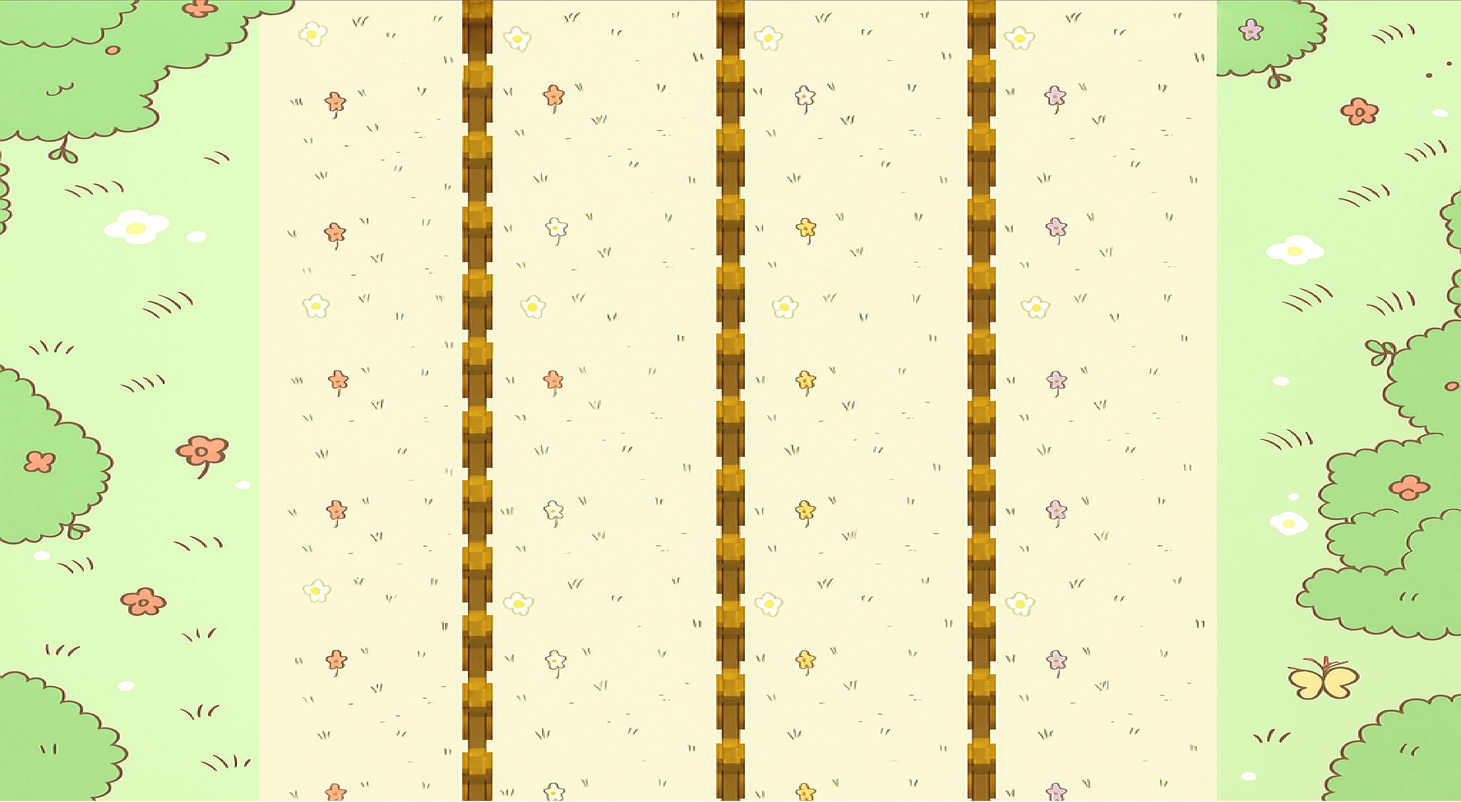
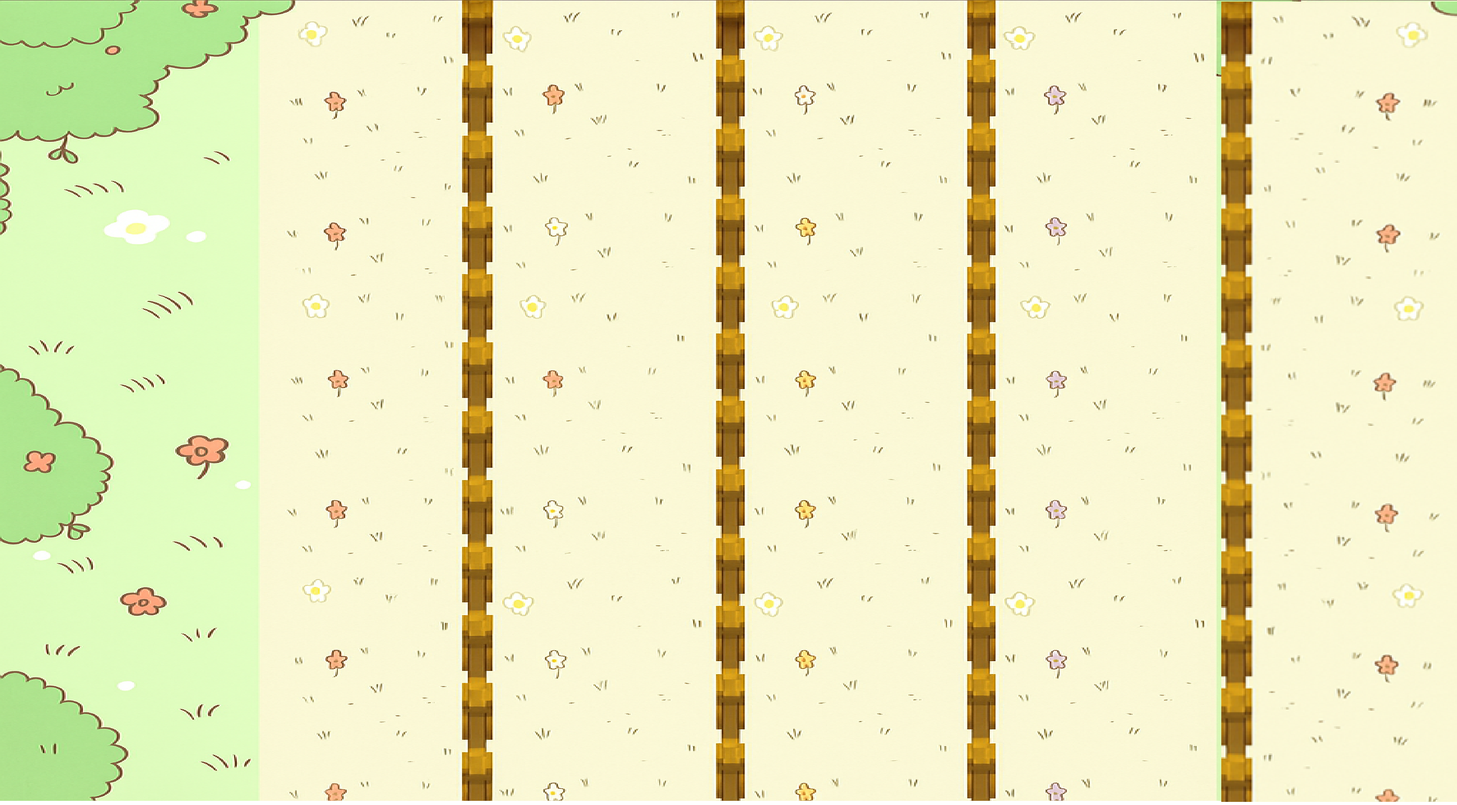
update

diff --git a/chicken_cross.py b/chicken_cross.py
@@ -5,7 +5,7 @@ import random
 
 # Initialize Pygame
 pygame.init()
-
+ 
 # Constants
 WIDTH = 1540
 HEIGHT = 774
@@ -22,6 +22,8 @@ YELLOW = (255, 255, 0)
 RED = (255, 0, 0)
 move_speed = 15  # Speed of movement
 passed = 0
+scroll_offset = 0  # For infinite scroll
+bg_switched = False  # Track if we have switched to street2 permanently
 
 # Set up the display
 screen = pygame.display.set_mode((WIDTH, HEIGHT))
@@ -31,12 +33,14 @@ clock = pygame.time.Clock()
 # Load images
 street_img = pygame.image.load("street.png").convert()
 street_img = pygame.transform.scale(street_img, (WIDTH, HEIGHT))  # Match total street width
+street2_img = pygame.image.load("street2.png").convert()
+street2_img = pygame.transform.scale(street2_img, (WIDTH, HEIGHT))  # Match total street width
 down = pygame.image.load("down.png").convert()
 down = pygame.transform.scale(down, (LANE_WIDTH, HEIGHT))  # Match total street width
 usagi = pygame.image.load("maincharacter.png").convert_alpha()  # Use convert_alpha for transparency
 usagi = pygame.transform.scale(usagi, (200, 180))
-star = pygame.image.load("star.png").convert_alpha()  # Use convert_alpha for transparency
-star = pygame.transform.scale(star, (200, 180))
+# star = pygame.image.load("star.png").convert_alpha()  # Use convert_alpha for transparency
+# star = pygame.transform.scale(star, (200, 180))
 obstacle_img = pygame.image.load("momonga.png").convert_alpha()  # Placeholder for obstacle image
 obstacle_img = pygame.transform.scale(obstacle_img, (100, 100))  # Adjust size as needed
 
@@ -69,7 +73,7 @@ obstacles = [
 
 def play_random_voices():
     if voice_files:  # Ensure there are voice files
-        selected_voices = random.sample(voice_files, min(1, len(voice_files)))  # Pick 2 random voices
+        selected_voices = random.sample(voice_files, min(1, len(voice_files)))  # Pick 1 random voice
         for voice in selected_voices:
             sound = pygame.mixer.Sound(voice)
             sound.play()
@@ -80,10 +84,11 @@ def generate_question():
     return f"{a} + {b} = ?", a + b
 
 def setup():
-    global chicken_x, chicken_y, current_lane, car_x, car_y, math_question, math_answer, user_input, score, time_left, game_over, target_x, passed
+    global chicken_x, chicken_y, current_lane, car_x, car_y, math_question, math_answer, user_input, score, time_left, game_over, target_x, passed, scroll_offset, bg_switched
     chicken_x = LANE_WIDTH // 2
     chicken_y = HEIGHT // 2
     passed = 0
+    scroll_offset = 0 # reset scroll offset
     current_lane = 0  # Start on sidewalk
     car_x = WIDTH
     car_y = HEIGHT - 150
@@ -93,6 +98,7 @@ def setup():
     time_left = TIME_LIMIT
     game_over = False
     target_x = chicken_x  # Reset target position
+    bg_switched = False
     # Randomize obstacle positions and speeds
     for obs in obstacles:
         obs["lane"] = obs["lane"]  # Fixed to one obstacle per lane
@@ -100,8 +106,20 @@ def setup():
         obs["y"] = HEIGHT - 150
         obs["speed_y"] = random.uniform(-4, 4)  # Increased speed range
 
+def reset_for_scroll():
+    global chicken_x, chicken_y, current_lane, target_x, obstacles
+    chicken_x = LANE_WIDTH // 2
+    chicken_y = HEIGHT // 2
+    current_lane = 0
+    target_x = chicken_x
+    # Reset obstacles to new positions for the new section
+    for obs in obstacles:
+        obs["x"] = obs["lane"] * LANE_WIDTH + LANE_WIDTH // 2 - 50
+        obs["y"] = HEIGHT - 150
+        obs["speed_y"] = random.uniform(-4, 4)
+
 def update_loop():
-    global chicken_x, chicken_y, current_lane, car_x, car_y, math_question, math_answer, user_input, score, time_left, game_over, other_lane, target_x, passed
+    global chicken_x, chicken_y, current_lane, car_x, car_y, math_question, math_answer, user_input, score, time_left, game_over, other_lane, target_x, passed, scroll_offset, bg_switched
 
     if game_over:
         for event in pygame.event.get():
@@ -166,28 +184,52 @@ def update_loop():
         if obs["y"] < 100 or obs["y"] > HEIGHT - 150:  # Keep within screen bounds
             obs["speed_y"] *= -1  # Reverse direction when hitting bounds
 
+    # Infinite scroll effect: after 4 lanes, shift everything and reset
+    if passed >= 6:
+        scroll_offset += WIDTH  # Move background by one screen width
+        passed = 0
+        reset_for_scroll()
+        bg_switched = True  # After first scroll, always use street2_img
+
     # Draw
     # Background
-    if current_lane == 5:
+    if current_lane == 7:
         other_lane *= -1
         current_lane = 0
-    if passed <= 2:
-        screen.blit(street_img, (0, 0))
-        for i in range(1, 6):
-            screen.blit(down, (LANE_WIDTH * i + 5, 0))
-    elif passed == 3:
-        offset_x = LANE_WIDTH  # Starting offset for lanes
-        if (offset_x * 1 + 5) > 0:  # Continue moving until lane 1 (i=1) reaches x=0
-            offset_x -= move_speed  # Move left smoothly
-        for i in range(1, 6):
-            screen.blit(down, (offset_x * i + 5, 0))
 
-    # Draw lanes
-    screen.blit(usagi, (chicken_x - 75, chicken_y - 90))  # Chicken (adjusted for center)
-    if other_lane == 1:
-        screen.blit(star, (WIDTH - LANE_WIDTH, HEIGHT // 2 - 50))
+    # Gradually blend street_img and street2_img based on scroll progress
+    scroll_progress = (scroll_offset % WIDTH) / WIDTH  # 0.0 to 1.0
+
+    if not bg_switched and scroll_progress > 0:
+        # Blend from street_img to street2_img during the first scroll
+        blended_bg = pygame.Surface((WIDTH, HEIGHT)).convert()
+        street_img_alpha = max(0, 255 - int(scroll_progress * 255))
+        street2_img_alpha = min(255, int(scroll_progress * 255))
+        temp_street = street_img.copy()
+        temp_street2 = street2_img.copy()
+        temp_street.set_alpha(street_img_alpha)
+        temp_street2.set_alpha(street2_img_alpha)
+        blended_bg.blit(temp_street, (0, 0))
+        blended_bg.blit(temp_street2, (0, 0))
+        screen.blit(blended_bg, (0, 0))
+    elif not bg_switched:
+        # Before first scroll, show street_img
+        screen.blit(street_img, (0, 0))
     else:
-        screen.blit(star, (LANE_WIDTH // 2 - 50, HEIGHT // 2 - 50))
+        # After first scroll, always show street2_img
+        screen.blit(street2_img, (0, 0))
+    
+    # Draw lanes with scroll offset
+    for i in range(1, 8):
+        lane_x = (LANE_WIDTH * i + 5) - (scroll_offset % WIDTH)
+        screen.blit(down, (lane_x, 0))
+
+    # Draw chicken and star with scroll offset
+    screen.blit(usagi, (chicken_x - 75, chicken_y - 90))
+    # if other_lane == 1:
+    #     screen.blit(star, (WIDTH - LANE_WIDTH - (scroll_offset % WIDTH), HEIGHT // 2 - 50))
+    # else:
+    #     screen.blit(star, (LANE_WIDTH // 2 - 50 - (scroll_offset % WIDTH), HEIGHT // 2 - 50))
     font = pygame.font.Font(None, 36)
     question_text = font.render(math_question, True, WHITE)
     input_text = font.render(user_input, True, WHITE)
@@ -196,14 +238,14 @@ def update_loop():
     screen.blit(input_text, (10, 50))
     screen.blit(time_text, (WIDTH - 150, 10))
 
-    # Draw obstacles
+    # Draw obstacles with scroll offset
     for obs in obstacles:
         if other_lane == 1:
             if obs["lane"] != current_lane:  # Do not draw obstacle in current lane
-                screen.blit(obstacle_img, (obs["x"], obs["y"]))
+                screen.blit(obstacle_img, (obs["x"] - (scroll_offset % WIDTH), obs["y"]))
         else:
             if obs["lane"] != 5 - current_lane:  # Do not draw obstacle in current lane
-                screen.blit(obstacle_img, (obs["x"], obs["y"]))
+                screen.blit(obstacle_img, (obs["x"] - (scroll_offset % WIDTH), obs["y"]))
 
     pygame.display.flip()
     return True
